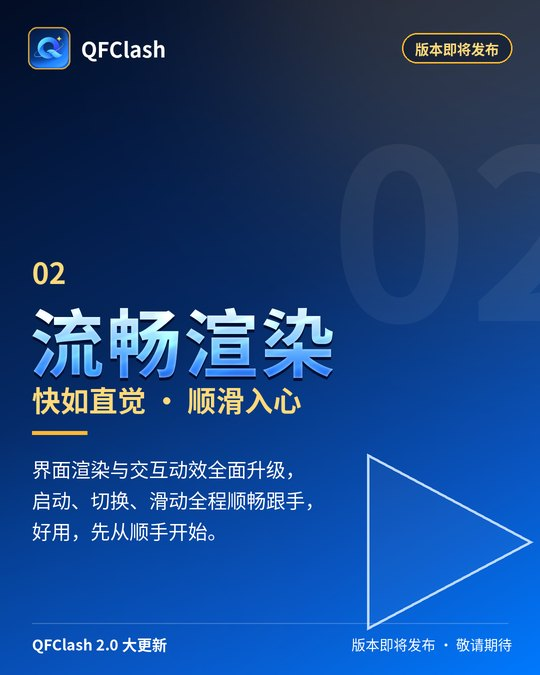
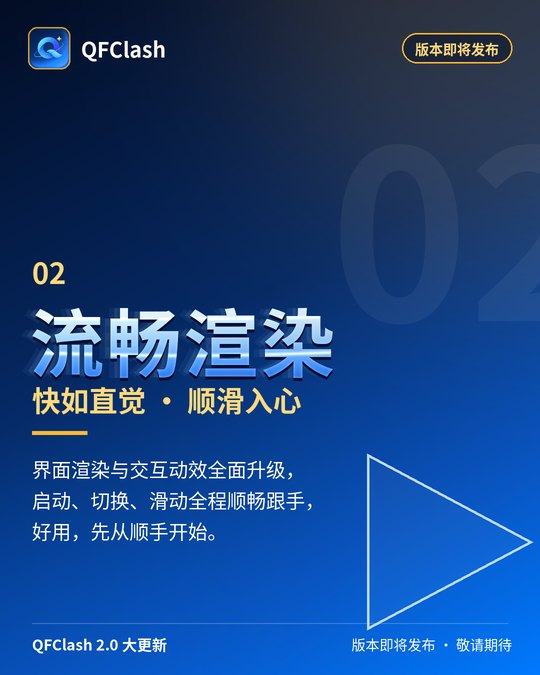
宣传大字改主题字体效果（站长更正：不带电）：撤电光辉光/电弧纹，改蓝金主题——金属渐变＋金色光轨穿字＋速度拖尾＋立体压深，海报与首页 CSS 同步同语言；海报 5 张按主题字重出；缓存标记 style.css 升 20261025g

Changed region(s): [[0.0593, 0.4667, 0.4444, 0.56], [0.4444, 0.4667, 0.6222, 0.5289]]

diff --git a/assets/style.css b/assets/style.css
@@ -413,10 +413,11 @@ input,textarea,select{transition:border-color .2s ease,box-shadow .2s ease}
 .promo-big{font-size:96px;font-weight:900;letter-spacing:10px}
 .promo-num,.promo-big{
   background-image:
-    repeating-linear-gradient(112deg, rgba(255,255,255,0) 0 44px, rgba(255,255,255,.17) 50px, rgba(255,255,255,0) 60px),
-    linear-gradient(180deg,#FFFFFF 4%,#D8EFFF 30%,#7CC0FF 52%,#2F7DFF 76%,#0A3FA0 100%);
+    linear-gradient(94deg, rgba(255,184,46,0) 40%, rgba(255,206,112,.85) 50%, rgba(255,184,46,0) 60%),
+    linear-gradient(94deg, rgba(160,210,255,0) 64%, rgba(160,210,255,.45) 71%, rgba(160,210,255,0) 78%),
+    linear-gradient(180deg,#FFFFFF 4%,#D9EFFF 30%,#8FC6FF 55%,#3B8BFF 78%,#0B47A8 100%);
   -webkit-background-clip:text;background-clip:text;color:transparent;
-  filter:drop-shadow(0 0 22px rgba(0,140,255,.38)) drop-shadow(0 7px 0 rgba(2,14,44,.45)) drop-shadow(0 18px 32px rgba(0,0,0,.30))}
+  filter:drop-shadow(-12px 0 8px rgba(140,190,255,.28)) drop-shadow(0 7px 0 rgba(2,14,44,.45)) drop-shadow(0 18px 32px rgba(0,0,0,.30))}
 .promo-slogan{font-size:27px;font-weight:700;letter-spacing:6px;margin-top:26px}
 .promo-desc{font-size:16.5px;line-height:1.85;color:rgba(255,255,255,.86);max-width:640px;margin:18px auto 0}
 .promo-pillars{display:grid;grid-template-columns:repeat(4,auto);gap:12px;margin-top:32px;justify-content:center}

diff --git a/faq.html b/faq.html
@@ -9,7 +9,7 @@
 <title>QFClash 常见问题</title>
 <meta name="description" content="QFClash 常见问题解答：账号与登录、连接与节点、订阅、积分与兑换、更新、封禁与申诉、论坛与聊天。">
 <link rel="icon" href="assets/icon.png">
-<link rel="stylesheet" href="assets/style.css?v=20261025f">
+<link rel="stylesheet" href="assets/style.css?v=20261025g">
 <style>
   .faq-cat{font-size:19px;margin:30px 0 6px;text-align:left}
   details.faq{border:1px solid var(--line);border-radius:12px;margin:10px 0;background:var(--card,#fff)}

diff --git a/changelog.html b/changelog.html
@@ -9,7 +9,7 @@
 <title>QFClash 更新日志</title>
 <meta name="description" content="QFClash 历次正式版本的更新说明与发布日期。">
 <link rel="icon" href="assets/icon.png">
-<link rel="stylesheet" href="assets/style.css?v=20261025f">
+<link rel="stylesheet" href="assets/style.css?v=20261025g">
 <style>
   .ver{border:1px solid var(--line);border-radius:14px;padding:20px 22px;margin:0 0 18px;background:var(--card,#fff)}
   .ver h2{font-size:21px;margin:0 0 2px;text-align:left}

diff --git a/agreement.html b/agreement.html
@@ -8,7 +8,7 @@
 <meta http-equiv="Expires" content="0">
 <title>QFClash 用户协议</title>
 <link rel="icon" href="assets/icon.png">
-<link rel="stylesheet" href="assets/style.css?v=20261025f">
+<link rel="stylesheet" href="assets/style.css?v=20261025g">
 <style>
   .lang-en{display:none}
   .region-alert{background:#f2f7ff;border:1px solid #cfe3ff;border-left:4px solid #007AFF;border-radius:8px;padding:10px 14px;font-size:14.5px;line-height:1.7;margin:14px 0 18px}

diff --git a/security.html b/security.html
@@ -9,7 +9,7 @@
 <title>QFClash 安全中心</title>
 <meta name="description" content="QFClash 安全中心 — 修改密码、更换邮箱、登录设备、通行密钥与注销账号。">
 <link rel="icon" href="assets/icon.png">
-<link rel="stylesheet" href="assets/style.css?v=20261025f">
+<link rel="stylesheet" href="assets/style.css?v=20261025g">
 </head>
 <body>
 

diff --git a/index.html b/index.html
@@ -9,7 +9,7 @@
 <title>QFClash 官方网站</title>
 <meta name="description" content="QFClash — 基于 mihomo 内核的网络代理客户端，支持 Android 与 Windows 双平台。">
 <link rel="icon" href="assets/icon.png">
-<link rel="stylesheet" href="assets/style.css?v=20261025f">
+<link rel="stylesheet" href="assets/style.css?v=20261025g">
 </head>
 <body>
 

diff --git a/privacy.html b/privacy.html
@@ -8,7 +8,7 @@
 <meta http-equiv="Expires" content="0">
 <title>QFClash 隐私说明</title>
 <link rel="icon" href="assets/icon.png">
-<link rel="stylesheet" href="assets/style.css?v=20261025f">
+<link rel="stylesheet" href="assets/style.css?v=20261025g">
 <style>
   .lang-en{display:none}
   .doc h3{font-size:16.5px;margin:22px 0 6px}

diff --git a/forum.html b/forum.html
@@ -9,7 +9,7 @@
 <title>QFClash 论坛</title>
 <meta name="description" content="QFClash 官方论坛 — 用户交流与互助社区。">
 <link rel="icon" href="assets/icon.png">
-<link rel="stylesheet" href="assets/style.css?v=20261025f">
+<link rel="stylesheet" href="assets/style.css?v=20261025g">
 </head>
 <body>
 
